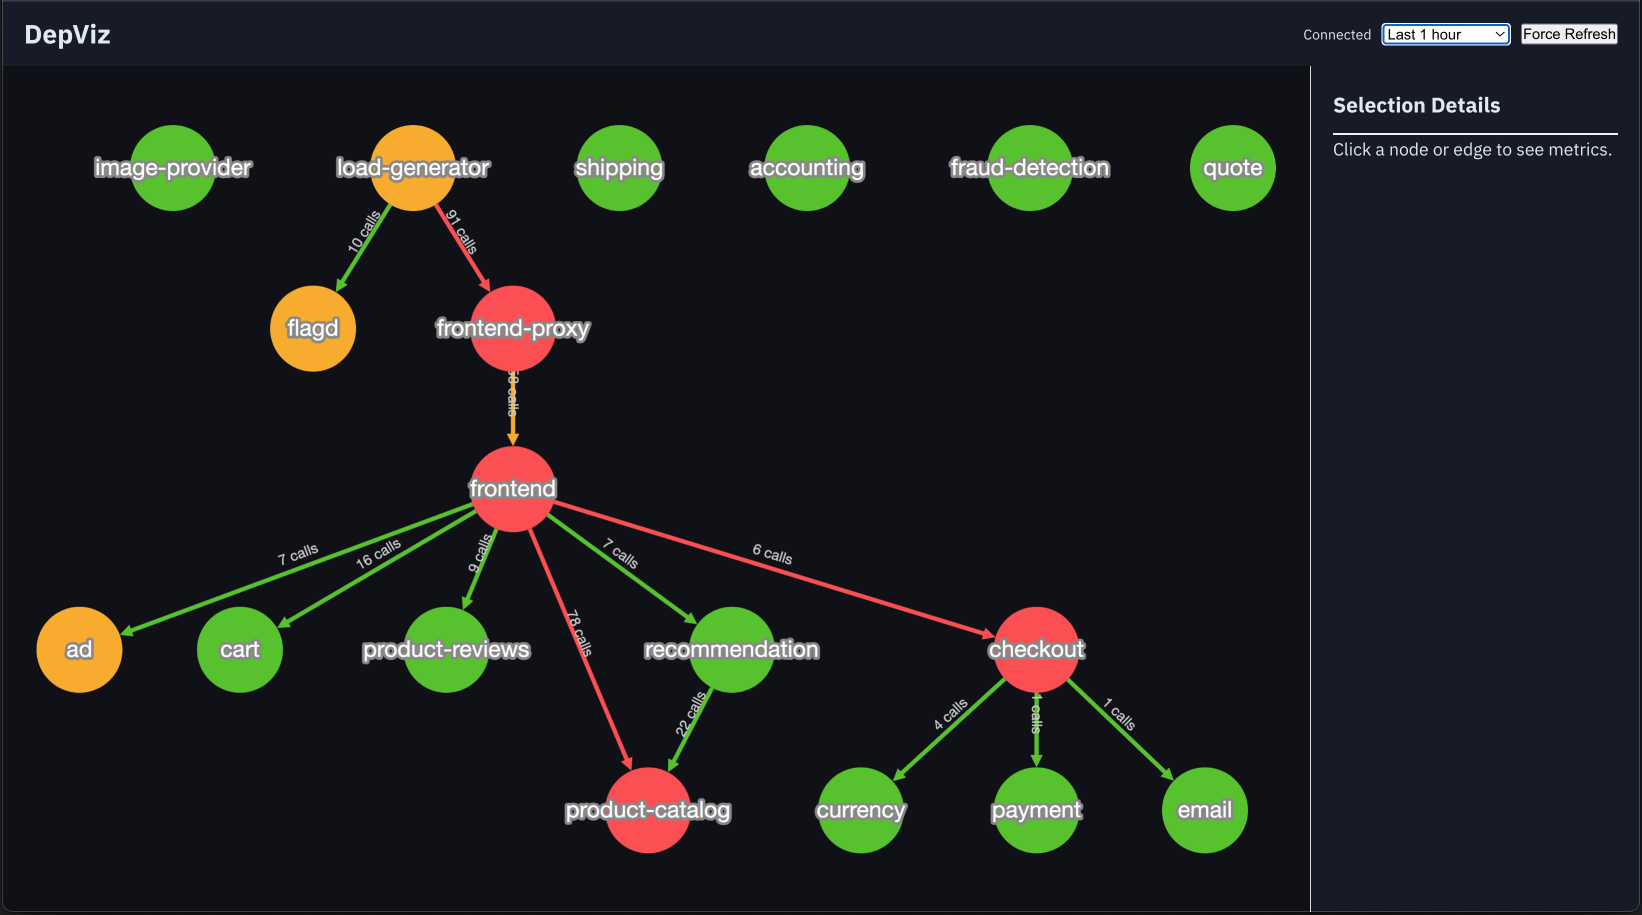
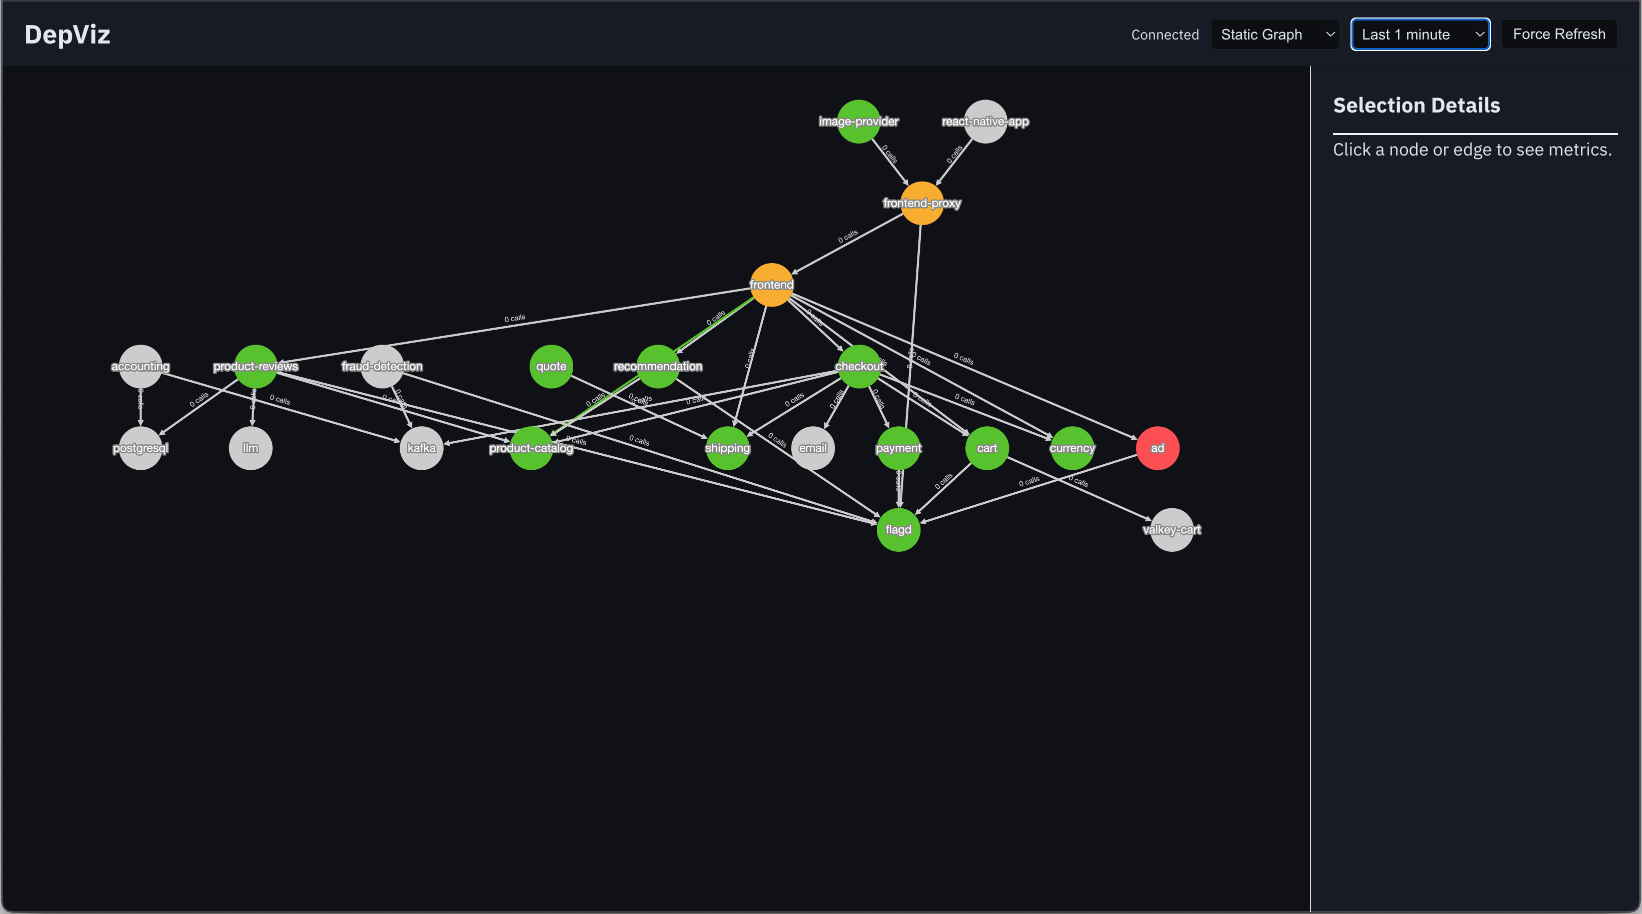
Add support for static graphs

diff --git a/ui/src/index.ts b/ui/src/index.ts
@@ -1,8 +1,9 @@
-import { connectWebSocket, manualFetch, sendWindowUpdate } from './network';
+import { connectWebSocket, manualFetch, sendWindowUpdate, sendDynamicUpdate } from './network';
 import { updateGraph } from './graph';
 import './style.css';
 
 let currentWindowSec = 60;
+let isDynamic = false;
 
 function updateStatus(status: 'connected' | 'disconnected') {
   const statusEl = document.getElementById('ws-status')!;
@@ -20,15 +21,22 @@ function updateStatus(status: 'connected' | 'disconnected') {
 }
 
 document.addEventListener('DOMContentLoaded', () => {
-  connectWebSocket(currentWindowSec, updateGraph, updateStatus);
-  manualFetch(currentWindowSec, updateGraph);
+  connectWebSocket(currentWindowSec, isDynamic, updateGraph, updateStatus);
+  manualFetch(currentWindowSec, isDynamic, updateGraph);
 
-  document.getElementById('refresh-btn')?.addEventListener('click', () => manualFetch(currentWindowSec, updateGraph));
+  document.getElementById('refresh-btn')?.addEventListener('click', () => manualFetch(currentWindowSec, isDynamic, updateGraph));
 
   const selector = document.getElementById('window-selector') as HTMLSelectElement;
   selector.addEventListener('change', () => {
     currentWindowSec = parseInt(selector.value);
     sendWindowUpdate(currentWindowSec);
-    manualFetch(currentWindowSec, updateGraph);
+    manualFetch(currentWindowSec, isDynamic, updateGraph);
+  });
+
+  const modeSelector = document.getElementById('mode-selector') as HTMLSelectElement;
+  modeSelector.addEventListener('change', () => {
+    isDynamic = modeSelector.value === 'dynamic';
+    sendDynamicUpdate(isDynamic);
+    manualFetch(currentWindowSec, isDynamic, updateGraph);
   });
 });

diff --git a/ui/src/network.ts b/ui/src/network.ts
@@ -4,6 +4,7 @@ let ws: WebSocket | null = null;
 
 export function connectWebSocket(
   currentWindowSec: number,
+  isDynamic: boolean,
   onData: (data: GraphData) => void,
   onStatusUpdate: (status: 'connected' | 'disconnected') => void
 ) {
@@ -16,6 +17,7 @@ export function connectWebSocket(
   ws.onopen = () => {
     onStatusUpdate('connected');
     ws?.send(`window:${currentWindowSec}`);
+    ws?.send(`dynamic:${isDynamic}`);
   };
 
   ws.onmessage = (event) => {
@@ -30,7 +32,7 @@ export function connectWebSocket(
 
   ws.onclose = () => {
     onStatusUpdate('disconnected');
-    setTimeout(() => connectWebSocket(currentWindowSec, onData, onStatusUpdate), 3000);
+    setTimeout(() => connectWebSocket(currentWindowSec, isDynamic, onData, onStatusUpdate), 3000);
   };
 
   ws.onerror = (error) => {
@@ -45,12 +47,19 @@ export function sendWindowUpdate(currentWindowSec: number) {
   }
 }
 
+export function sendDynamicUpdate(isDynamic: boolean) {
+  if (ws && ws.readyState === WebSocket.OPEN) {
+    ws.send(`dynamic:${isDynamic}`);
+  }
+}
+
 export async function manualFetch(
   currentWindowSec: number,
+  isDynamic: boolean,
   onData: (data: GraphData) => void
 ) {
   try {
-    const response = await fetch(`/graph?window_sec=${currentWindowSec}`);
+    const response = await fetch(`/graph?window_sec=${currentWindowSec}&dynamic=${isDynamic}`);
     const data: GraphData = await response.json();
     onData(data);
   } catch (err) {

diff --git a/ui/index.html b/ui/index.html
@@ -9,13 +9,17 @@
       <h1>DepViz</h1>
       <div class="controls">
         <span id="ws-status" class="status">Connecting...</span>
-        <select id="window-selector">
+        <select id="mode-selector" style="background: var(--surface2); color: var(--text); border: 1px solid var(--border); padding: 5px; border-radius: 4px;">
+          <option value="static">Static Graph</option>
+          <option value="dynamic">Inferred Graph</option>
+        </select>
+        <select id="window-selector" style="background: var(--surface2); color: var(--text); border: 1px solid var(--border); padding: 5px; border-radius: 4px;">
           <option value="60">Last 1 minute</option>
           <option value="300">Last 5 minutes</option>
           <option value="900">Last 15 minutes</option>
           <option value="3600">Last 1 hour</option>
         </select>
-        <button id="refresh-btn">Force Refresh</button>
+        <button id="refresh-btn" style="background: var(--surface2); color: var(--text); border: 1px solid var(--border); padding: 5px 10px; border-radius: 4px; cursor: pointer;">Force Refresh</button>
       </div>
     </div>
     <div id="main-container">

diff --git a/server/src/depviz_server/aggregator.py b/server/src/depviz_server/aggregator.py
@@ -1,20 +1,23 @@
 import bisect
+import json
+import os
 import threading
 import time
 from collections import defaultdict
-from typing import List, Dict
+from typing import List, Dict, Any, Optional
 
 from depviz_server.model import SpanEvent, EdgeKey, EdgeStats, NodeStats
 
 
 class GraphAggregator:
-    def __init__(self, window_sec: int = 10, retention_buckets: int = 60):
+    def __init__(self, window_sec: int = 10, retention_buckets: int = 60, static_graph_path: Optional[str] = None):
         """
         Initializes a GraphAggregator with specified window and retention settings.
 
         Parameters:
         - window_sec: The time window in seconds for aggregating edge statistics.
         - retention_buckets: The number of buckets to retain for historical data.
+        - static_graph_path: Path to a JSON file containing a static graph.
         """
 
         self.window_ns = window_sec * 1_000_000_000
@@ -25,6 +28,70 @@ class GraphAggregator:
         # bucket_id -> service_name -> NodeStats
         self.node_buckets: Dict[int, Dict[str, NodeStats]] = defaultdict(lambda: defaultdict(NodeStats))
         self.active_buckets: List[int] = []
+
+        # Determine the static graph path more robustly
+        if static_graph_path:
+            self.static_graph_path = static_graph_path
+        else:
+            self.static_graph_path = os.environ.get("STATIC_GRAPH_PATH")
+            if not self.static_graph_path:
+                # Try relative to the package first
+                # Current file: server/src/depviz_server/aggregator.py
+                # Data file: server/data/otel-demo.json
+                base_dir = os.path.dirname(os.path.dirname(os.path.dirname(os.path.abspath(__file__))))
+                self.static_graph_path = os.path.join(base_dir, "data", "otel-demo.json")
+
+        # Fallback to absolute /server/data/... if not found
+        if not os.path.exists(self.static_graph_path):
+             alt_path = "/server/data/otel-demo.json"
+             if os.path.exists(alt_path):
+                 self.static_graph_path = alt_path
+
+        print(f"GraphAggregator: static graph path set to {self.static_graph_path} (exists: {os.path.exists(self.static_graph_path)})")
+
+    def _load_static_graph(self) -> Dict[str, Any]:
+        """
+        Loads the static graph from a JSON file and transforms it to the expected output format.
+        """
+        if not self.static_graph_path or not os.path.exists(self.static_graph_path):
+            print(f"Static graph file not found at {self.static_graph_path}")
+            return {"nodes": [], "edges": []}
+
+        try:
+            with open(self.static_graph_path, "r") as f:
+                data = json.load(f)
+
+            # Format:
+            # { "nodes": [{"id": "svc"}], "edges": [{"source": "p", "target": "c"}] }
+            # Transform to:
+            # { "nodes": [{"name": "svc", "call_count": 0, "error_count": 0}],
+            #   "edges": [{"src": "p", "dst": "c", "call_count": 0, "p95_ms": 0.0, "error_count": 0}] }
+
+            nodes = []
+            for n in data.get("nodes", []):
+                nodes.append({
+                    "name": n.get("id", "unknown"),
+                    "call_count": 0,
+                    "error_count": 0
+                })
+
+            edges = []
+            for e in data.get("edges", []):
+                edges.append({
+                    "src": e.get("source", "unknown"),
+                    "dst": e.get("target", "unknown"),
+                    "call_count": 0,
+                    "p95_ms": 0.0,
+                    "error_count": 0
+                })
+
+            return {
+                "nodes": sorted(nodes, key=lambda x: x["name"]),
+                "edges": edges
+            }
+        except Exception as e:
+            print(f"Error loading static graph: {e}")
+            return {"nodes": [], "edges": []}
 
     def ingest(self, spans: List[SpanEvent]):
         """
@@ -41,13 +108,13 @@ class GraphAggregator:
         with self.lock:
             for s in spans:
                 bucket_id = s.end_time_ns // self.window_ns
-                
+
                 # Update node stats
                 node_stats = self.node_buckets[bucket_id][s.service_name]
                 node_stats.call_count += 1
                 if s.is_error:
                     node_stats.error_count += 1
-                
+
                 # SPAN_KIND_SERVER = 2, SPAN_KIND_CONSUMER = 5
                 if s.kind in (2, 5):
                     node_stats.server_call_count += 1
@@ -85,16 +152,19 @@ class GraphAggregator:
                 if b_id in self.node_buckets:
                     del self.node_buckets[b_id]
 
-    def get_snapshot(self, window_sec: int = 60):
+    def get_snapshot(self, window_sec: int = 60, dynamic: bool = False):
         """
         Retrieves a snapshot of aggregated edge statistics within a specified window.
 
         Parameters:
         - window_sec: The time window in seconds for which to retrieve the snapshot.
+        - dynamic: If True, return the inferred graph. Otherwise, return the static graph.
 
         Returns:
         - A dictionary mapping EdgeKey to EdgeStats representing the aggregated statistics.
         """
+
+        print(f"GraphAggregator.get_snapshot: dynamic={dynamic}, window_sec={window_sec}")
 
         now_ns = time.time_ns()
         start_ns = now_ns - (window_sec * 1_000_000_000)
@@ -111,7 +181,7 @@ class GraphAggregator:
                         combined.call_count += stats.call_count
                         combined.durations.extend(stats.durations)
                         combined.error_count += stats.error_count
-                    
+
                     for svc_name, stats in self.node_buckets[b_id].items():
                         combined = nodes_combined[svc_name]
                         combined.call_count += stats.call_count
@@ -119,12 +189,46 @@ class GraphAggregator:
                         combined.server_call_count += stats.server_call_count
                         combined.server_error_count += stats.server_error_count
 
+        if not dynamic:
+            static_graph = self._load_static_graph()
+            static_nodes = {n["name"]: n for n in static_graph["nodes"]}
+            static_edges = {(e["src"], e["dst"]): e for e in static_graph["edges"]}
+
+            # Update static nodes with dynamic metrics
+            for svc_name, stats in nodes_combined.items():
+                if svc_name in static_nodes:
+                    node = static_nodes[svc_name]
+                    # Logic: Use SERVER/CONSUMER spans if they exist, otherwise use all spans
+                    if stats.server_call_count > 0:
+                        node["call_count"] = stats.server_call_count
+                        node["error_count"] = stats.server_error_count
+                    else:
+                        node["call_count"] = stats.call_count
+                        node["error_count"] = stats.error_count
+
+            # Update static edges with dynamic metrics
+            for edge_key, stats in edges_combined.items():
+                key = (edge_key.parent_service, edge_key.child_service)
+                if key in static_edges:
+                    edge = static_edges[key]
+                    edge["call_count"] = stats.call_count
+                    edge["error_count"] = stats.error_count
+
+                    p95 = 0.0
+                    if stats.durations:
+                        sorted_durations = sorted(stats.durations)
+                        idx = int(len(sorted_durations) * 0.95)
+                        p95 = sorted_durations[min(idx, len(sorted_durations) - 1)]
+                    edge["p95_ms"] = round(p95, 2)
+
+            return static_graph
+
         # Format for REST API
         result_nodes = []
         for svc_name, stats in nodes_combined.items():
             if not svc_name or not isinstance(svc_name, str):
                 continue
-            
+
             # Logic: Use SERVER/CONSUMER spans if they exist, otherwise use all spans
             if stats.server_call_count > 0:
                 call_count = stats.server_call_count
@@ -132,7 +236,7 @@ class GraphAggregator:
             else:
                 call_count = stats.call_count
                 error_count = stats.error_count
-            
+
             result_nodes.append({
                 "name": svc_name,
                 "call_count": call_count,
@@ -145,7 +249,7 @@ class GraphAggregator:
                 continue
             if not isinstance(edge_key.parent_service, str) or not isinstance(edge_key.child_service, str):
                 continue
-            
+
             p95 = 0.0
             if stats.durations:
                 # Basic p95 calculation

diff --git a/server/src/depviz_server/api.py b/server/src/depviz_server/api.py
@@ -18,8 +18,8 @@ app.add_middleware(
 )
 
 @app.get("/graph")
-def get_graph(window_sec: Optional[int] = 60):
-    snapshot = global_aggregator.get_snapshot(window_sec=window_sec or 60)
+def get_graph(window_sec: Optional[int] = 60, dynamic: bool = False):
+    snapshot = global_aggregator.get_snapshot(window_sec=window_sec or 60, dynamic=dynamic)
     return JSONResponse(content=snapshot)
 
 
@@ -27,9 +27,10 @@ def get_graph(window_sec: Optional[int] = 60):
 async def websocket_endpoint(websocket: WebSocket):
     await websocket.accept()
     window_sec = 60
-    
+    dynamic = False
+
     async def receive_loop():
-        nonlocal window_sec
+        nonlocal window_sec, dynamic
         try:
             while True:
                 data = await websocket.receive_text()
@@ -39,6 +40,9 @@ async def websocket_endpoint(websocket: WebSocket):
                         print(f"WebSocket window updated to {window_sec}s")
                     except ValueError:
                         pass
+                elif data.startswith("dynamic:"):
+                    dynamic = data.split(":")[1].lower() == "true"
+                    print(f"WebSocket dynamic mode changed to: {dynamic}")
         except Exception as e:
             print(f"WebSocket receive error: {e}")
 
@@ -46,7 +50,7 @@ async def websocket_endpoint(websocket: WebSocket):
 
     try:
         while True:
-            snapshot = global_aggregator.get_snapshot(window_sec=window_sec)
+            snapshot = global_aggregator.get_snapshot(window_sec=window_sec, dynamic=dynamic)
             await websocket.send_json(snapshot)
             await asyncio.sleep(2)  # Update every 2 seconds
     except WebSocketDisconnect:
